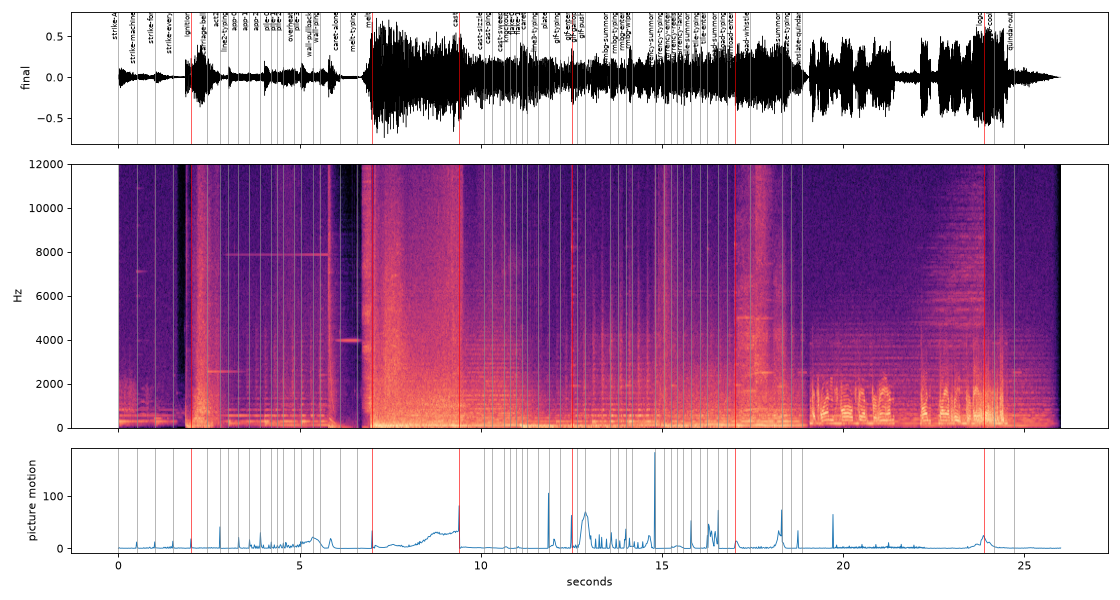
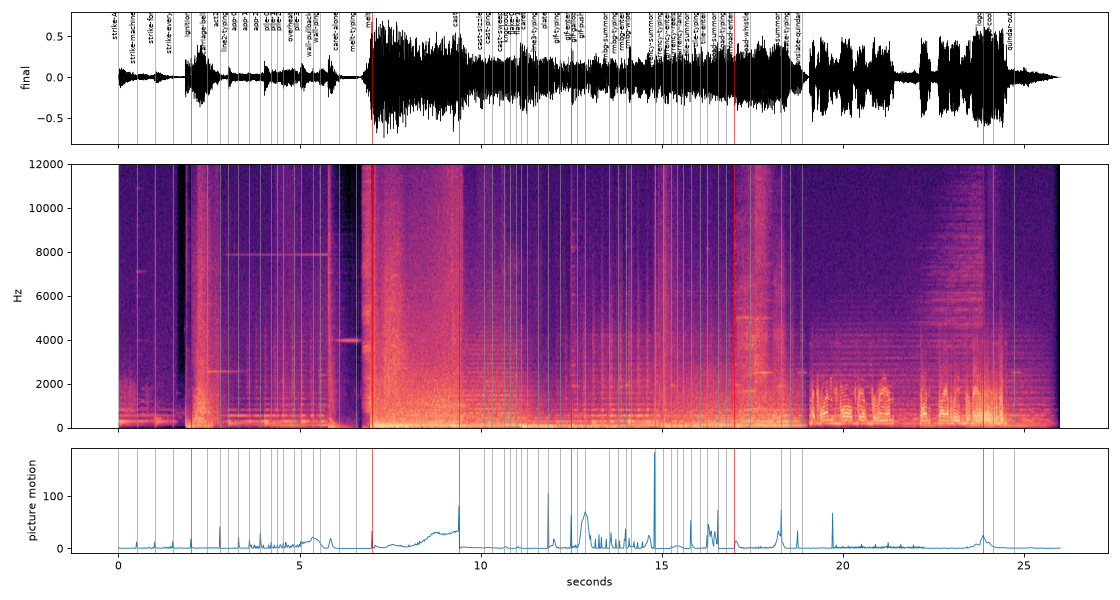
Every job: the caret is the motif; the bar leaves Armstrong alone
The caret alone in the dark (6.1 s) now sits where, and at the size,
the molten caret is born from the cast bar (10.9 s), so the same caret
comes back out of the metal. After the translate enter the bar sinks
out of frame, leaving Armstrong and the moon. The storyboard describes
the 26 s arc, the valley, the drop and the score.

Generated with [Devin](https://devin.ai)

diff --git a/foundry-ad/every-job/js/film.js b/foundry-ad/every-job/js/film.js
@@ -29,7 +29,9 @@
   const MELT0 = TM.meltCmd;                      // ignition is the enter: the drop
   const STALL = TM.stall;
   // the valley: the caret comes on alone, blinks once in the dark, and the line is typed into the silence
-  const CMD0 = { ...TM.cmd0, show: TM.caretAlone, blink: (TM.cmd0.t0 - TM.caretAlone) / 2 + 1e-3 };
+  // the caret alone in the dark is where, and the size, the molten caret will be born from the cast bar (BAR's
+  // text start, line 3's size): the same caret comes back out of the metal
+  const CMD0 = { ...TM.cmd0, show: TM.caretAlone, blink: (TM.cmd0.t0 - TM.caretAlone) / 2 + 1e-3, size: 62, at: [280 + 76, 456 + 84] };
   // ignition delay of set (i, j): ours on the enter, the rest as a wave outward (the same formula is in gl.js TV)
   const ignAt = (i, j) => (i === 0 && j === 0 ? 0 : h21(i + 1.7, j + 1.7) * 0.25 + Math.hypot(i, j) * 0.07);
   const camZoom = (t) => {
@@ -397,7 +399,7 @@
     const KK = Object.fromEntries(TM.kills.map((k) => [k.kind, k]));
     const tileTree = M.splitTree([1, 1, 2, 3, 4].map((k, i) => ({ t: KK.tile.enter + i * 0.09, k })), 61);   // splits on the enter, then holds
     const TILE_CLIPS = ["typists", "operator", "telegraph", "console", "gallop", "aldrin", "arrival", "reels", "ticker", "drawers", "moonface", "crowd", "flag", "capsule"];
-    const barT = { glass: TM.glass, bardown: TM.settle, logo: TM.logo, line3: TM.line3 };
+    const barT = { glass: TM.glass, bardown: TM.settle, logo: TM.logo, line3: TM.line3, rest: KK.translate.enter + 0.45 };
 
     window.L.on((t) => {
       const f = frame(t);

diff --git a/foundry-ad/every-job/js/type.js b/foundry-ad/every-job/js/type.js
@@ -10,6 +10,7 @@
     cmd.style.visibility = "visible";
     cmd.classList.toggle("ink", !!c.ink);
     cmd.style.fontSize = `${c.size || 124}px`;
+    if (c.at) { cmd.style.left = `${c.at[0]}px`; cmd.style.top = `${c.at[1] - 70}px`; }   // text start x, centre y
     const n = Math.floor(clamp((t - c.t0) * c.cps, 0, c.text.length));
     const pasted = c.paste && t >= c.pasteAt;
     if (txt.dataset.k !== `${n}:${pasted}`) {
@@ -169,7 +170,8 @@
     el.style.visibility = "visible";
     const a = ease.inOutCubic(prog(t, TM.glass, TM.glass + 0.14));
     const d = ease.inOutCubic(prog(t, TM.bardown, TM.bardown + 0.34));
-    const out = ease.inCubic(prog(t, TM.logo - 0.05, TM.logo + 0.25));
+    // its last job done, the bar gets out of Armstrong's way (TM.rest), else it leaves with the cut to the logo
+    const out = TM.rest ? ease.inOutCubic(prog(t, TM.rest, TM.rest + 0.5)) : ease.inCubic(prog(t, TM.logo - 0.05, TM.logo + 0.25));
     const w = lerp(1360, 1180, d), h = lerp(168, 124, d), cy = lerp(540, 930, d) + out * 60;
     el.style.width = `${w}px`; el.style.height = `${h}px`; el.style.left = `${960 - w / 2}px`; el.style.top = `${cy - h / 2}px`;
     el.style.borderRadius = `${h / 2}px`; el.style.opacity = String(a * (1 - out));

diff --git a/foundry-ad/every-job/index.html b/foundry-ad/every-job/index.html
@@ -23,7 +23,7 @@
       #cmd.ink { color: var(--ink); text-shadow: none; }
       #cmd .link { color: rgba(241, 239, 234, 0.62); }
       #cmd.exec { color: var(--molten); }
-      #cmd .caret { display: block; width: 10px; height: 102px; margin-left: 10px; background: var(--molten);
+      #cmd .caret { display: block; width: 0.1em; height: 0.95em; margin-left: 0.06em; background: var(--molten);
         box-shadow: 0 0 22px 2px rgba(255, 90, 31, 0.65); }
       .cap { position: absolute; left: 0; width: 1920px; text-align: center; visibility: hidden; white-space: pre;
         font: 500 64px/1.25 "Plex Mono", monospace; letter-spacing: -0.02em; color: var(--bone);

diff --git a/foundry-ad/every-job/STORYBOARD.md b/foundry-ad/every-job/STORYBOARD.md
@@ -1,7 +1,7 @@
 ---
 title: Foundry — "Every job." (v2)
 format: 1920x1080, 60 fps (rendered at 120, sub-frame pairs blended)
-duration: 24.3 s
+duration: 26.0 s
 tempo: 120 BPM (beat 0.5 s); all times in tools/timing.py (writes js/timing.js; the score imports it)
 ---
 
@@ -9,9 +9,13 @@ tempo: 120 BPM (beat 0.5 s); all times in tools/timing.py (writes js/timing.js; 
 
 > A machine for every job. / An app for every job. / One for every job.
 
-Setup and payoff: the jobs the apps in Act II were piled up for are done in Act III, one line each in
-Foundry's bar. Armstrong's line spans the finale so "...for mankind." lands on the
-wordmark.
+Alchemy: many into one. Setup and payoff: the jobs the apps in Act II were piled up for are done in Act III, one
+line each in Foundry's bar. Armstrong's line spans the finale so "...for mankind." lands on the wordmark.
+
+The arc is the references' (research/feel/): lineage (pride), the weight (pressure), a valley (held breath), the
+drop (the "oh shit"), the one (relief), the kills (momentum), Armstrong (awe), the cast logo (arrival). One motif
+runs through it: the caret. The caret alone in the dark at 6.1 s is where, and the size, the molten caret is born
+from the cast bar at 10.9 s.
 
 # System
 
@@ -36,29 +40,35 @@ wordmark.
 |---|---|
 | 0.0–2.8 | **A machine / for every / job.** struck by a typewriter, one word per beat, each word a hard cut to its machine: typing pool, switchboard, telegraph, 1957 computer, Saturn V ignition. |
 | 2.8–5.0 | **An app for every job.** typed with an I-beam; *YouTube Downloader MP4 (No Virus)*, *Background Eraser Online*, *GIF Maker Pro* land big and readable, then twenty more. The set overheats: the picture rolls and tears, the glass glows. |
-| 5.0–5.7 | The camera pulls back: an endless wall of sets tilting away into fog, every one a pile of apps. It holds there half a second while every set pings. |
-| 6.2 | `melt them down`. Three frames of nothing. |
-| 6.25–8.6 | Ignition travels out from our set and every screen burns through from a molten edge; the drips run down the wall and braid into one river under a drift of embers; the camera falls with it. |
-| 8.6–10.4 | The river fills a mould: Foundry's bar. It cools from the rim in: the skin crusts and cracks, the casting shrinks from the mould wall, smoke lifts, a few sparks pop. The heat retreats to where the cursor lives. A band of light runs along the iron; the sand mould is knocked out; the iron shell flakes away to the glass bar. |
-| 10.4–11.0 | The last molten point is the caret. **One for every job.** types out of it. |
-| 11.15–17.25 | **The kills**, on one even cadence. Each is just its line typed in the bar while the picture waits, then enter: `convert to gif` (Muybridge's plate gallops), `remove background`, `100 usd in eur` (89.25, ECB rate on 2026-10-05), `tile windows`, `download youtu.be/lumiere-1895` (the clip opens out of the bar; the train comes through). |
-| 17.25–22.17 | `translate to japanese`, last. Its enter is the Quindar tone, and then Armstrong, whole and uninterrupted: "That's one small step for man," builds and turns Japanese in his pause; "one giant leap" builds under it. |
-| 22.17–24.3 | Cut on "for": back through tiles holding the flag planting until they are the wordmark; **"...mankind."** as it resolves. The wordmark is the last casting: a wave sends each tile white-hot, thin strokes cool first through orange and cracked oxide, the cores hold heat longest, and it settles as pale iron that one band of light runs along. The molten caret after the name blinks through the Quindar beep (end of transmission) and goes out with it. Then only the room, the camera still creeping in. |
+| 5.0–5.75 | The camera pulls back: an endless wall of sets tilting away into fog, every one a pile of apps; every set pings. |
+| 5.75–7.0 | **The valley.** Everything stalls: the pictures freeze, every set powers down (raster, line, dot, off), ours first and the wall outward; the room goes dark. One caret blinks alone; `melt them down` is typed into the silence. |
+| 7.0 | **The drop**, on the enter: our set goes white and the heat hits the lens (flash, halation, shake, haze); the blast lights the dead wall for a few frames. |
+| 7.0–9.4 | Ignition travels out from our set and every screen burns through from a molten edge, throwing sparks; the drips run down the wall and braid into one river; the camera falls with it. |
+| 9.4–11.2 | The river fills a mould: Foundry's bar. It cools from the rim in: the skin crusts and cracks, the casting shrinks from the mould wall, smoke lifts. The heat retreats to where the cursor lives. A band of light runs along the iron; the sand mould is knocked out; the iron shell flakes away to the glass bar. |
+| 11.2–11.8 | The last molten point is the caret, where the caret in the dark was. **One for every job.** types out of it. |
+| 12.0–18.75 | **The kills**, each sooner than the last. Each is its line typed in the bar while the picture waits, then enter: `convert to gif` (Muybridge's plate gallops), `remove background`, `100 usd in eur` (89.25, ECB rate on 2026-10-05), `tile windows`, `download youtu.be/lumiere-1895` (the clip opens out of the bar; the train comes through). |
+| 18.75–23.42 | `translate to japanese`, last. Its enter is the Quindar tone; the bar gets out of the way, and then Armstrong, whole and uninterrupted: "That's one small step for man," builds and turns Japanese in his pause; "one giant leap" builds under it. |
+| 23.42–26.0 | Cut on "for": back through tiles holding the flag planting until they are the wordmark; **"...mankind."** as it resolves. The wordmark is the last casting: a wave sends each tile white-hot, sparks tear off its edges, thin strokes cool first through orange and cracked oxide, the cores hold heat longest, and it settles as pale iron that one band of light runs along. The molten caret after the name blinks through the Quindar beep (end of transmission) and goes out with it. |
 
 # Sound
 
-Percussion and texture only: the machines themselves, a sub, and one breathing drone in B-flat. Every pad,
-pluck and bell run is gone. The ending is the voice, the Quindar tone and silence.
+The score is one orchestral-hybrid composition (ElevenLabs, `tools/music.py`, planned from `timing.MUSIC`) in B-flat
+minor on a three-note motif: felt piano for the lineage, tightening strings for the weight, a tape-stop into a
+ringing for the valley, the full drop on the melt's enter, one held note as the iron cools, a build through the
+kills, quiet strings under Armstrong and a swell that crests on "mankind". `tools/score.py` edits it to picture.
 
-Every sound effect is a real recording placed from `tools/timing.py` (`tools/cues.py`, mixed and checked by
-[opus-sound-layer](https://github.com/Bodila51/opus-sound-layer)); the music and the roars are `tools/score.py`.
+Every sound effect is a real recording or a project-owned generation placed from `tools/timing.py` (`tools/cues.py`,
+mixed and checked by [opus-sound-layer](https://github.com/Bodila51/opus-sound-layer)); the roars are beds in
+`tools/score.py`.
 
 - **Act I**: each word is a 1940s typewriter strike with its machine on it: the typing pool, a phone bell, Morse, a
   1957 computer's blips. "job." is the Saturn V: a hit and sub, then the shuttle's roar, dead on the Act II cut.
-- **Act II**: a modern keyboard for the I-beam; the apps land as glass ticks rising in pitch; the set's static tears
-  as it overheats; one whoosh on the pull-back, the whole wall pings once.
-- **Melt**: the music stops dead under `melt them down`; the enter and a riser land with the blast; then lava and
-  furnace roar, growing as the camera falls with the river.
+- **Act II**: a modern keyboard for the I-beam; the apps land as glass ticks rising in pitch; the sets hum and strain;
+  the set's static tears as it overheats; one whoosh on the pull-back, the whole wall pings once.
+- **Valley**: every set powers down (thunk, static cut, whine collapsing with the dot) across the stereo field,
+  farther ones quieter and later; then only the ringing, a caret tick and `melt them down` typed close and dry.
+- **Drop**: an air-suck ends on the enter; the hit lands with the score's drop; screens implode outward along the
+  picture's ignition wave; the roar arrives late (sound is slower than light), swells, then narrows into a pour.
 - **Cast**: the river slams into the mould (metal, sub, the fall's whoosh) and the roar stops; then it sizzles,
   pings as it contracts, the light sweeps, the mould is knocked out (thud and sand), the shell flakes, the caret ticks.
 - **Kills**: the bar is summoned, one typing take per command, enter is an anvil. Each job sounds like itself: the
